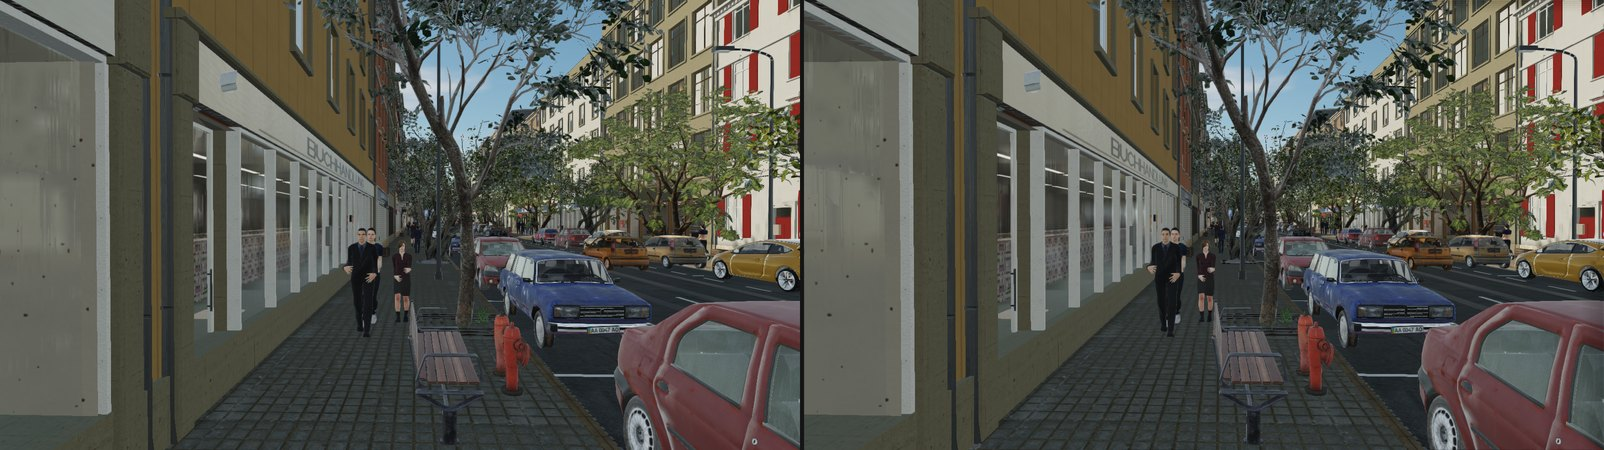
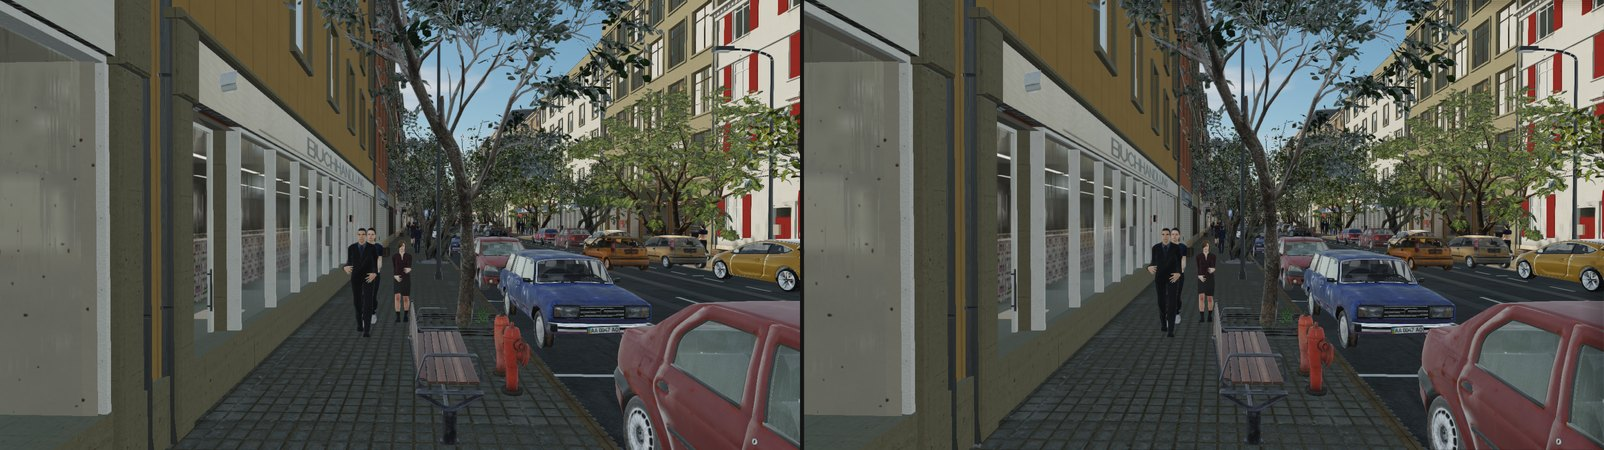
docs: the street on WebGPU after the pixel-centre fix -- 0.5-8.8 % against EasyGL, and how the half-pixel offset was found

diff --git a/docs/webgpu-bringup/README.md b/docs/webgpu-bringup/README.md
@@ -2,15 +2,18 @@
 
 The street runs on CNA's WebGPU renderer (wgpu-native v29.0.1.1, AMD Radeon 780M / RADV, Mesa
 25.0.7), compared against the OPENGL33 (EasyGL) baseline and the Vulkan renderer the previous pass
-brought up. Two defects were found and fixed; one measured difference remains and belongs to CNA's
-WebGPU renderer rather than to this project.
+brought up. Three defects were found and fixed: one in this project, two in CNA's WebGPU renderer.
+The street now renders the same picture on all three.
 
 ## What was broken
 
 | Where | What | Fix |
 |---|---|---|
-| CNA `STREETW-0001` | Every instanced draw took the position-only `instanced3d` program whatever effect was applied, so every tree, parked car, bench and piece of street furniture was a flat white silhouette | PbrEffect keeps its family when the draw is instanced (`plans/plan_street_webgpu.md`) |
+| CNA `STREETW-0001` | Every instanced draw took the position-only `instanced3d` program whatever effect was applied, so every tree, parked car, bench and piece of street furniture was a flat white silhouette | PbrEffect keeps its family when the draw is instanced |
 | cna-street `STREETW-0002` | No sky at all, and `the sky shader did not compile: ... found "#"` at start-up | The sky package gained a WGSL variant, and the selection asks which *language* a renderer runs rather than whether it runs source at all |
+| CNA `STREETW-0003` | The whole frame sat half a pixel up and left of the same scene on the other two renderers | The WebGPU renderer had no XNA pixel-centre correction at all; it now carries Vulkan's, field for field |
+
+All three are in CNA's `plans/plan_street_webgpu.md`.
 
 `webgpu-before-fixes/` holds three of the viewpoints as they were: white props, black sky.
 
@@ -21,23 +24,26 @@ any channel, against the OPENGL33 capture:
 
 | | Vulkan | WebGPU |
 |---|---|---|
-| before the fixes | 0.3 – 1.9 % | 52 – 98 % |
-| after | 0.3 – 1.9 % | 8 – 32 % |
+| as found | 0.3 - 1.9 % | 52 - 98 % |
+| after STREETW-0001 and 0002 | 0.3 - 1.9 % | 8 - 32 % |
+| after STREETW-0003 | 0.3 - 1.9 % | **0.5 - 8.8 %**, 17 of the 18 under 3.2 % |
 
-The remaining WebGPU difference is **not** a shading difference. Every renderer is deterministic
-run to run (two captures of the same renderer differ by 0.00 %), region means agree to within
-1–5/255, and the high-frequency detail energy of the same surfaces matches to three decimal places.
-What differs is *where* the detail sits: a sub-pixel search over the two frames finds the WebGPU
-image offset by about **half a pixel in both x and y** — aligning it drops the mean absolute
-difference from 4.64 to 3.32/255. That is CNA's long-standing WebGPU pixel-centre-convention gap,
-the one `WebGPU_PointSamplingContract` and `WebGPU_DescriptorCapacityContract` have recorded for
-months (`plans/plan_webgpu.md`); it is measured here in a real scene rather than fixed, because
-changing the convention moves every draw on that renderer.
+The half-pixel offset was found by measurement rather than by reading code, and the order is worth
+keeping because every earlier candidate was ruled out first:
 
-Turning MSAA off in all three (`--preset medium`) does not close the gap, so it is not an
-anti-aliasing difference either; disabling every optional pass
-(`--no-bloom --no-ssao --no-fog --no-shadows --no-ibl --no-light-shafts --no-probes`) leaves it at
-26 %, so it is in the base opaque pass, exactly as a raster-position offset would be.
+* **Not noise.** Each renderer is deterministic: two captures of the same renderer differ by 0.00 %.
+* **Not tone.** Region means agreed to within 1-5/255, and the difference was not monotonic in
+  brightness, so not a gamma, exposure or tone-map difference.
+* **Not sharpness.** The high-frequency detail energy of the same oblique facades, road and canopy
+  matched to three decimal places, so not filtering, anisotropy or mip selection.
+* **Not anti-aliasing.** `--preset medium` turns MSAA off in all three and the gap grew slightly.
+* **Not a pass.** With every optional pass off it was still 26 %, so it was in the base opaque pass.
+* **A sub-pixel offset.** A search over sub-pixel shifts found the WebGPU frame displaced by half a
+  pixel in both axes. After the fix that same search puts its optimum at exactly (0, 0).
+
+The remaining few per cent are ordinary edge and sampling differences between two APIs on one GPU.
+`06-above-the-junction`, the aerial view, is the one outlier at 8.8 %; it is the viewpoint with the
+most distant geometry, and Vulkan is its worst case too (1.9 %).
 
 ## Build (one tree, three renderers)
 
